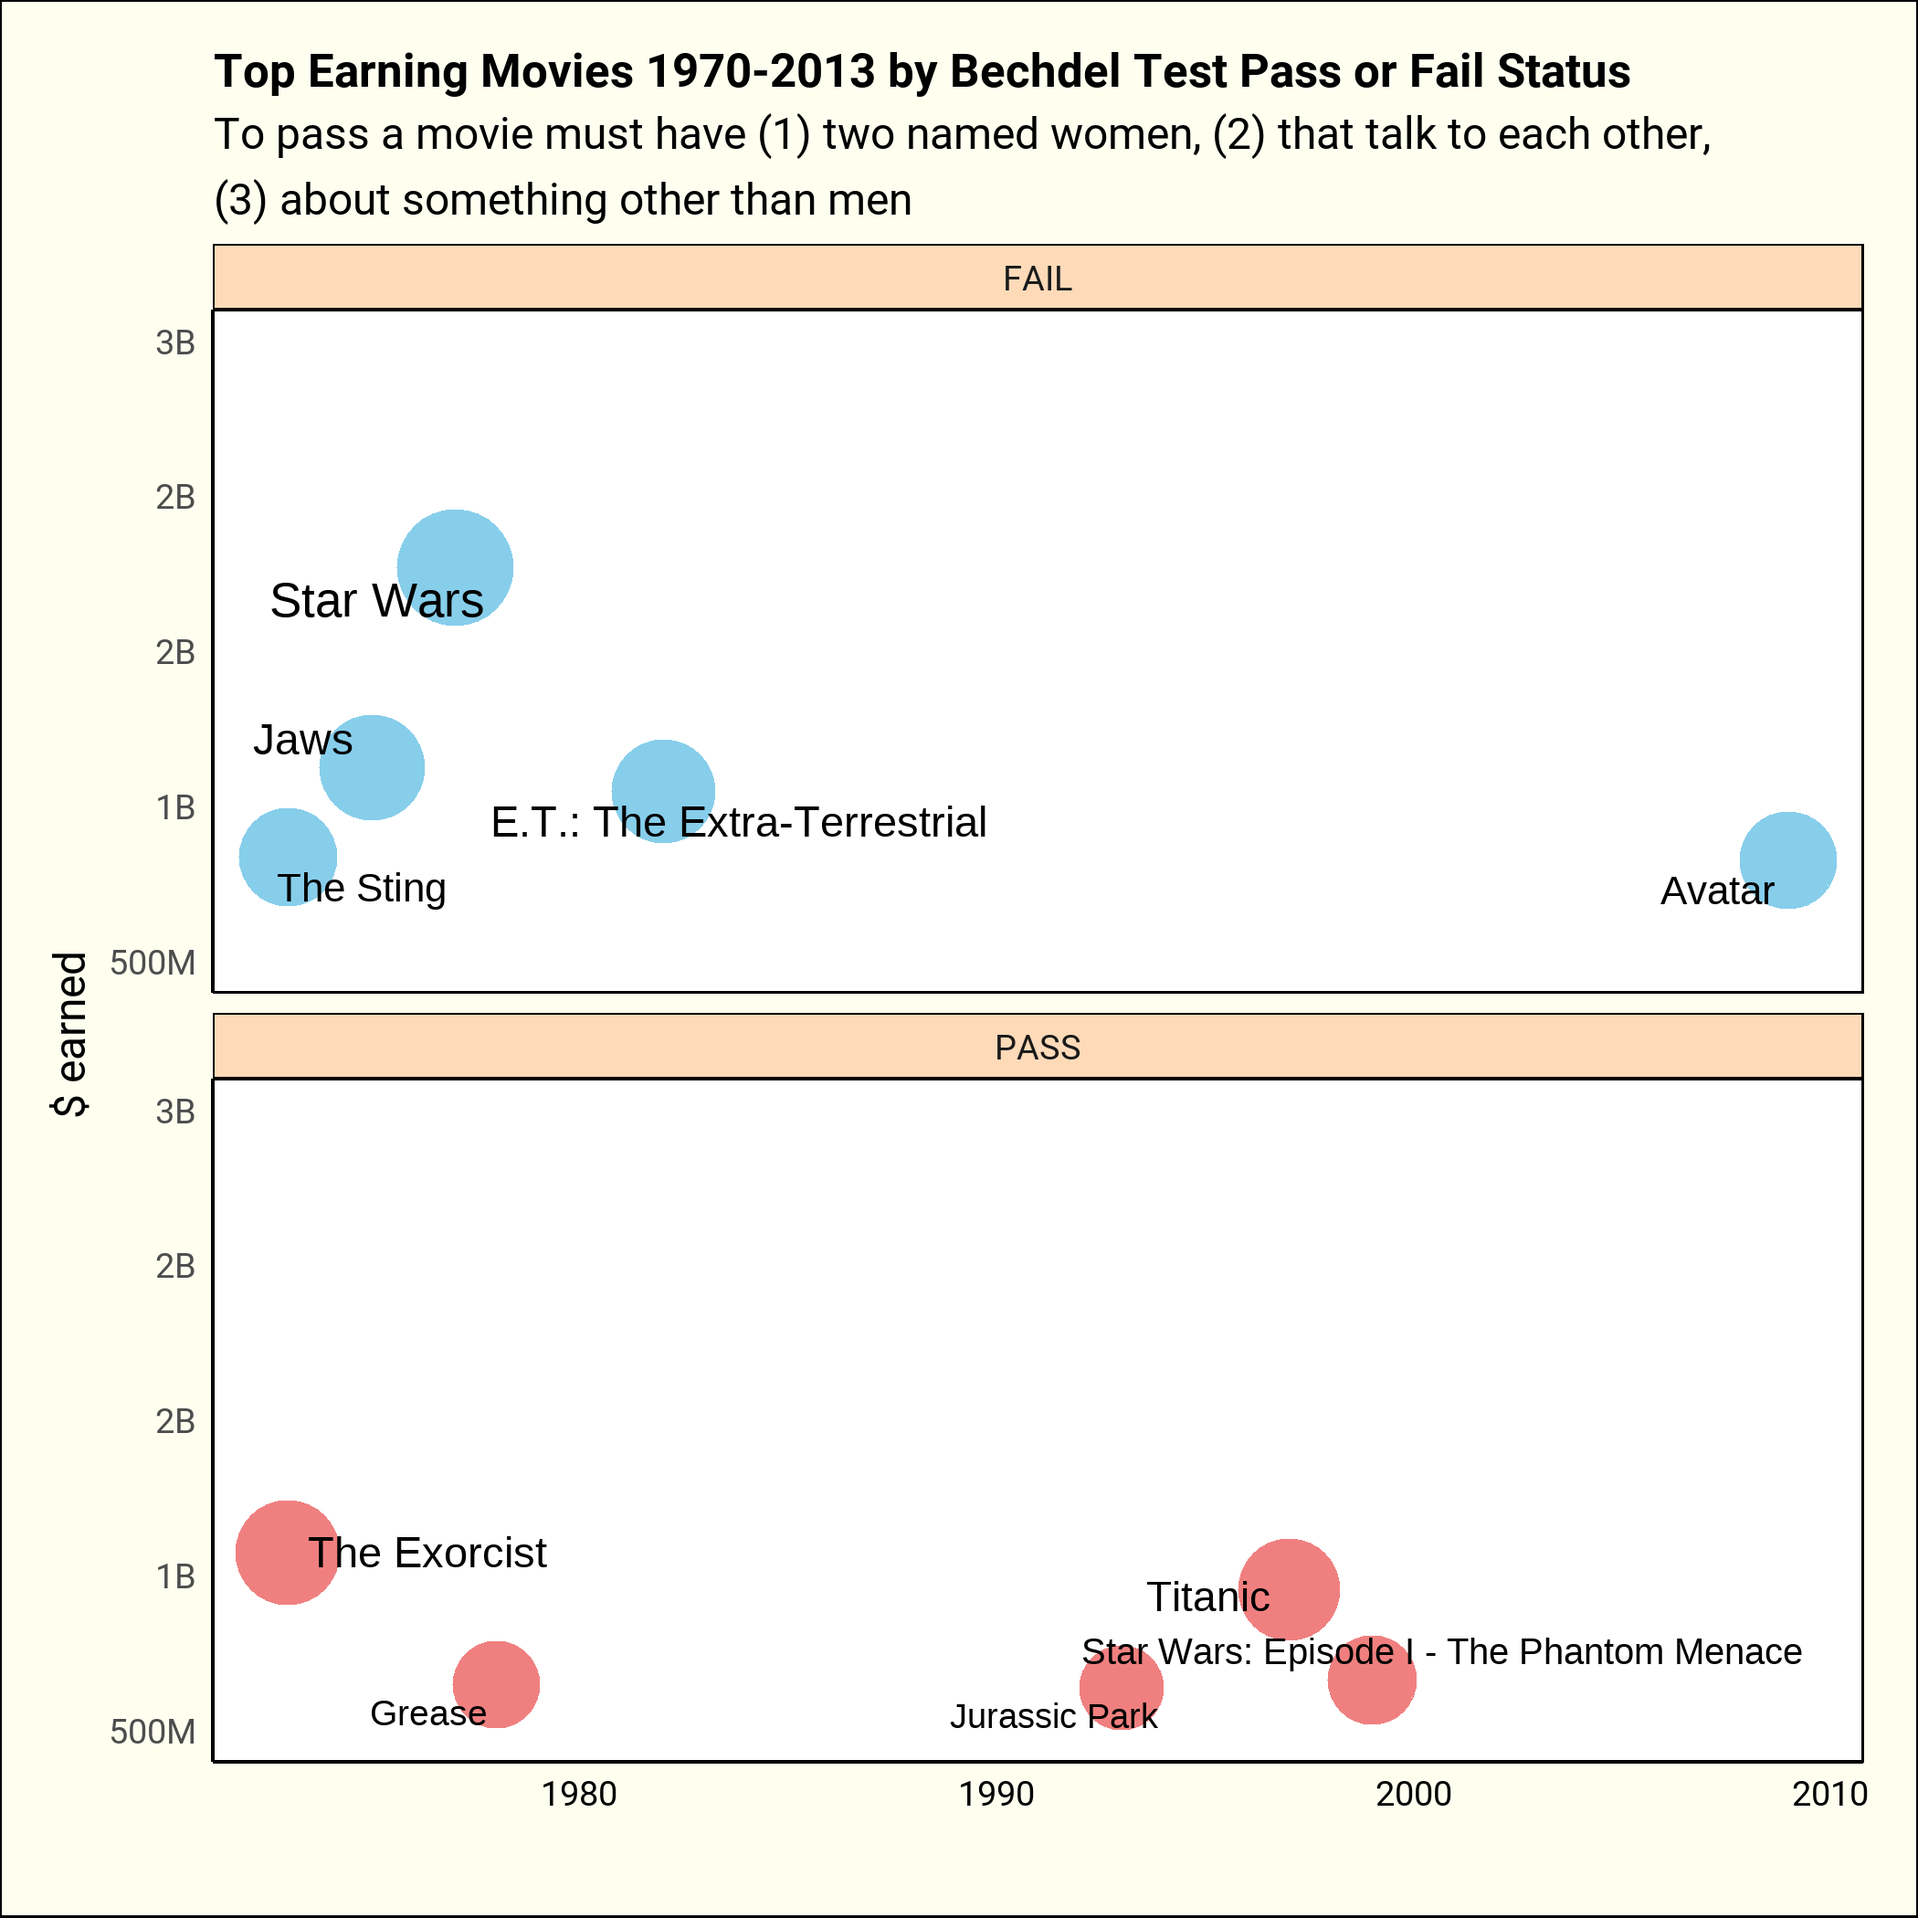
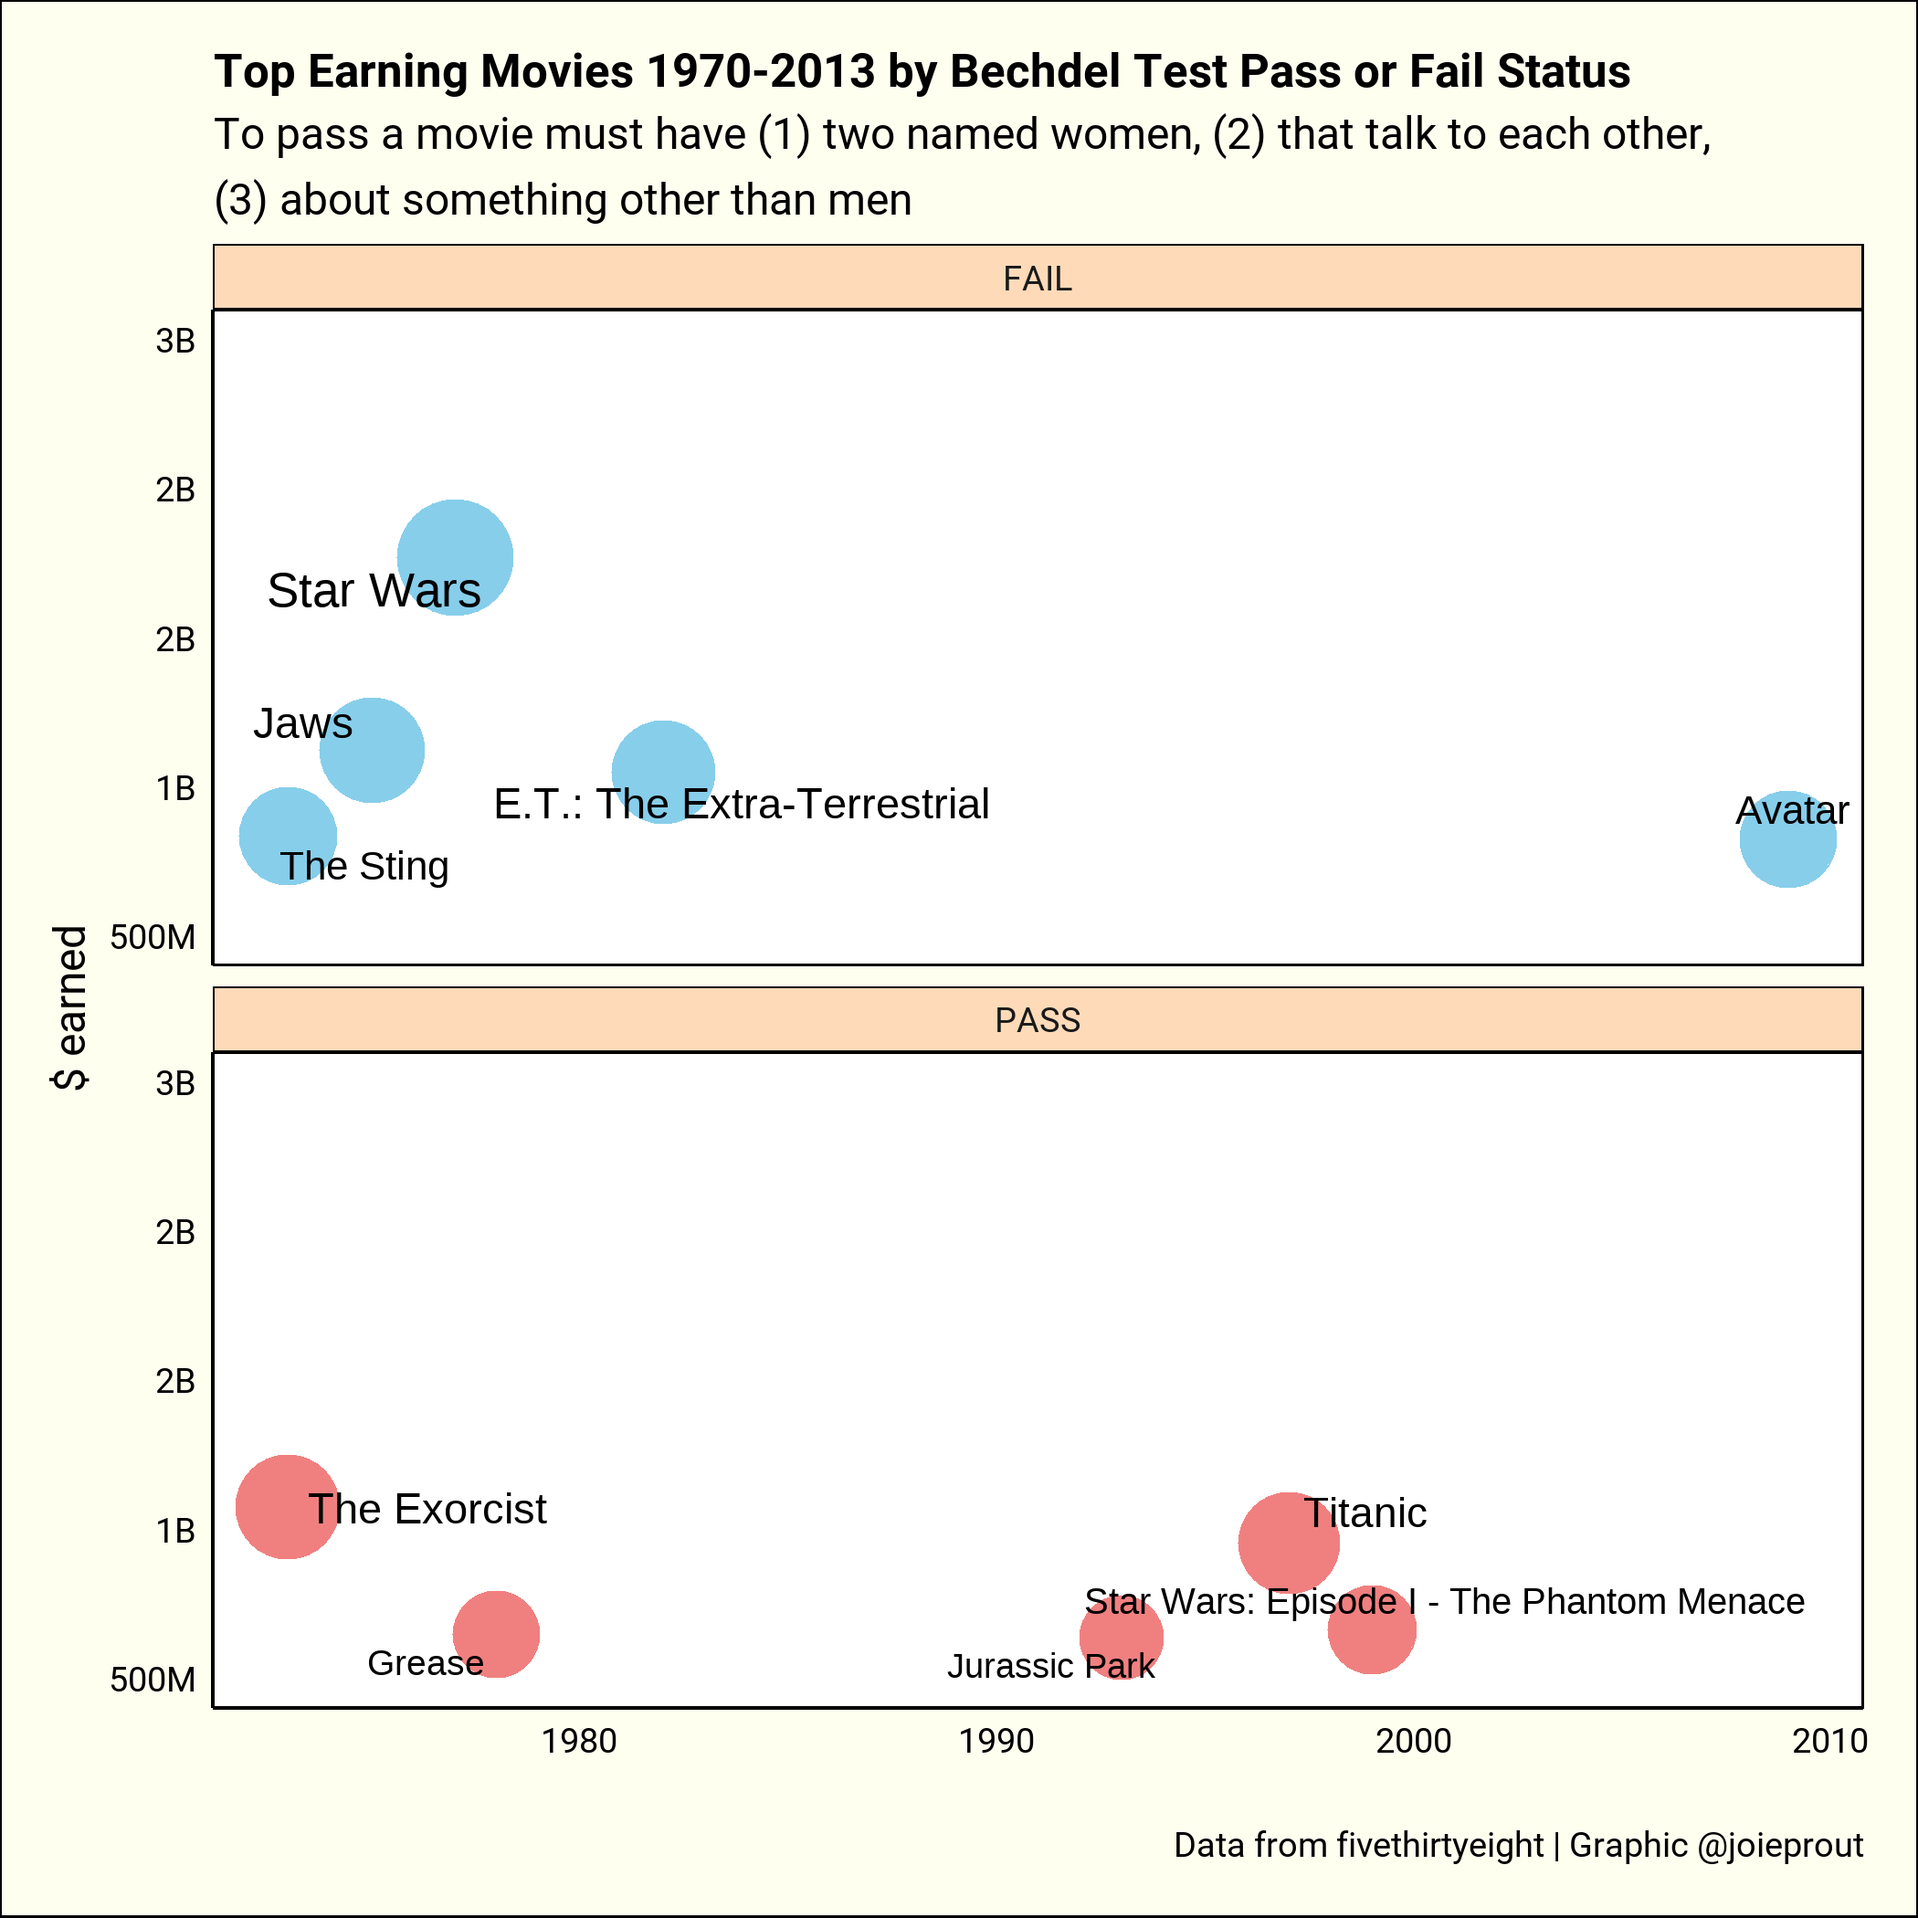
adding caption

diff --git a/Bechdel.html b/Bechdel.html
@@ -212,7 +212,7 @@ d &lt;- rbind (passes, fails)</code></pre>
                   panel.background = element_rect(color = &quot;black&quot;, fill = &quot;white&quot;),
                   plot.background = element_rect(color = &quot;black&quot;, fill = &quot;ivory&quot;),
                     strip.background = element_rect (fill = &quot;peachpuff&quot;, color = &quot;black&quot;),
-         axis.text.y = element_text (),
+         axis.text.y = element_text (color = &quot;black&quot;),
          axis.text.x = element_text (color = &quot;black&quot;),
          axis.line.x = element_line (color = &quot;black&quot;),
          axis.line.y = element_line (color = &quot;black&quot;),
@@ -222,7 +222,8 @@ d &lt;- rbind (passes, fails)</code></pre>
   labs ( subtitle = &quot;To pass a movie must have (1) two named women, (2) that talk to each other, \n(3) about something other than men&quot;,
          x = &quot; &quot;,
          y = &quot;$ earned&quot;,
-         title = &quot;Top Earning Movies 1970-2013 by Bechdel Test Pass or Fail Status&quot;) +
+         title = &quot;Top Earning Movies 1970-2013 by Bechdel Test Pass or Fail Status&quot;,
+         caption = &quot;Data from fivethirtyeight | Graphic @joieprout&quot;) +
     scale_color_manual (values = c(&quot;skyblue&quot;, &quot;lightcoral&quot;))</code></pre>
 <pre class="r"><code>ggsave (&quot;bechdel.png&quot;, height = 7, width = 7)</code></pre>
 
